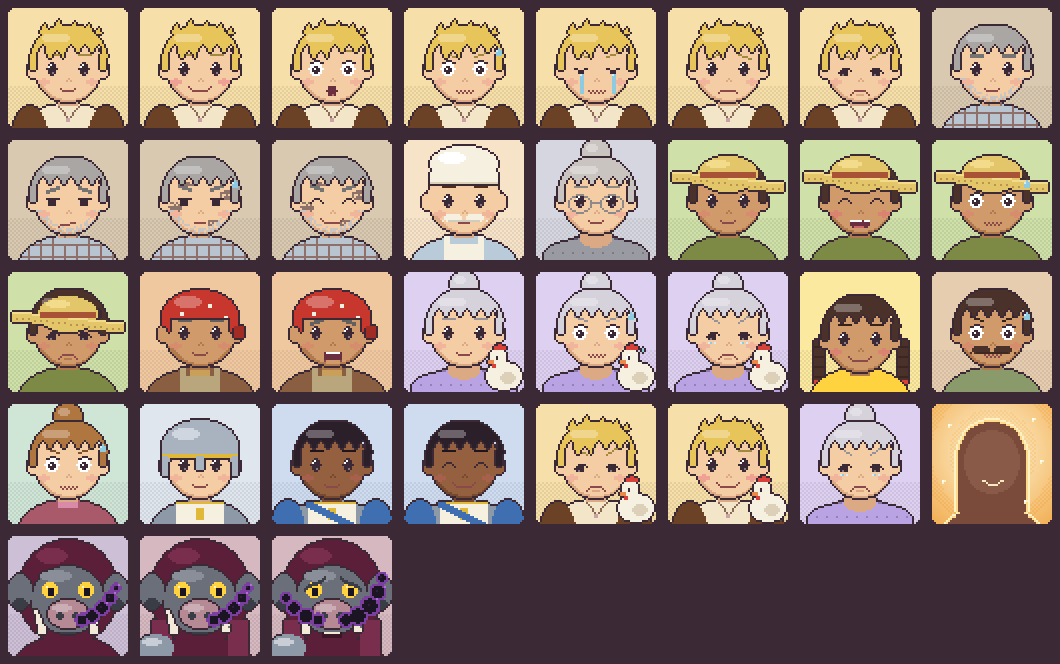
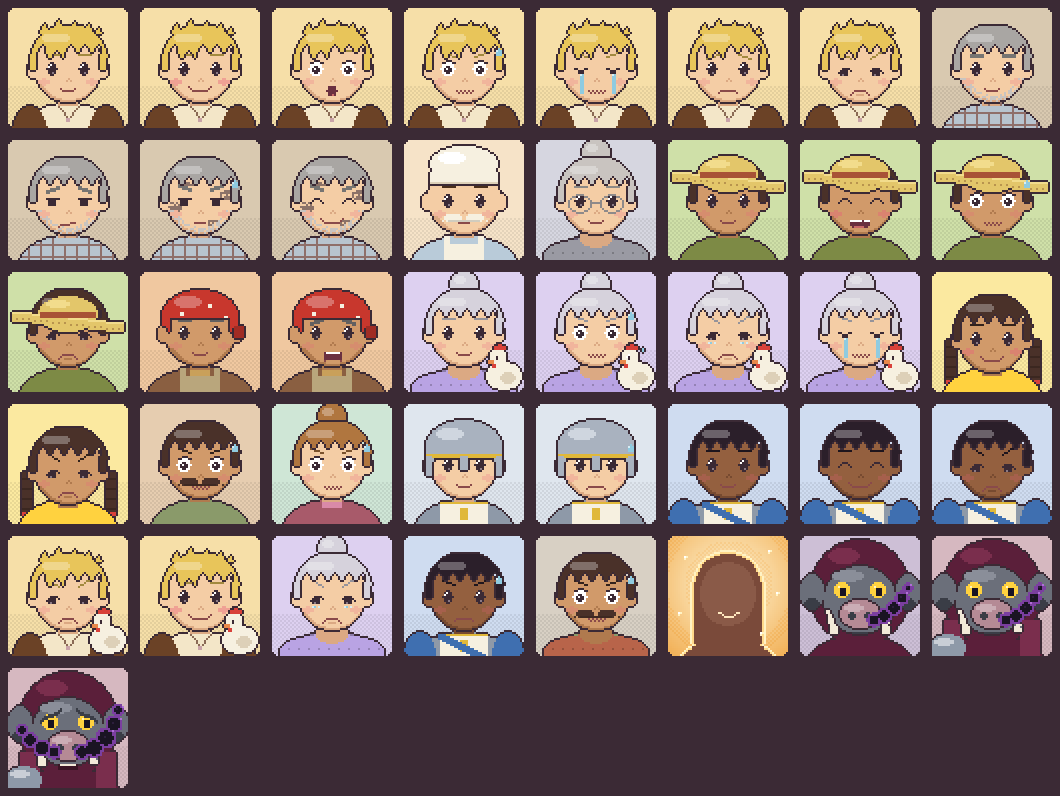
Arte: retratos soldado_tenso, sargento_tensa/triste, nina_triste, custodia_choro, sobrevivente_medo
Claude-Session: https://claude.ai/code/session_01XuAwfEvS43hiaXGfUYnQvb

diff --git a/tools/arte/gerar_retratos.py b/tools/arte/gerar_retratos.py
@@ -1,4 +1,4 @@
-"""Gera os 29 retratos 64×64 de assets/portraits/ e a prancha docs/arte/capturas/retratos.png.
+"""Gera os 41 retratos 64×64 de assets/portraits/ e a prancha docs/arte/capturas/retratos.png.
 
 Uso: python3 tools/arte/gerar_retratos.py
 """
@@ -27,6 +27,7 @@ EXPR = {
     'brava': ('brava', 'normal', 'aberta_brava', ()),
     'suave': ('reta', 'fechado', 'sorriso', ()),
     'triste': ('triste', 'baixo', 'triste', ()),
+    'tenso': ('triste', 'normal', 'firme', ('suor',)),
 }
 
 FUNDOS = {'icaro': '#f6dfa8', 'pai': '#d9c9b0', 'tonho': '#cfe0a8', 'zefa': '#f0c8a0', 'custodia': '#ddd0f0', 'nina': '#fbe9a0', 'juca': '#f6e3c8',
@@ -396,11 +397,11 @@ LISTA = [
     ('juca', 'juca', ['neutro']), ('ermelinda', 'ermelinda', ['neutro']),
     ('tonho', 'tonho', ['neutro', 'riso', 'medo', 'triste']),
     ('zefa', 'zefa', ['neutro', 'brava']),
-    ('custodia', 'custodia', ['neutro', 'medo', 'triste']),
-    ('nina', 'nina', ['neutro']),
+    ('custodia', 'custodia', ['neutro', 'medo', 'triste', 'choro']),
+    ('nina', 'nina', ['neutro', 'triste']),
     ('aldeao', 'sobrevivente_1', ['medo']), ('aldea', 'sobrevivente_2', ['medo']),
-    ('soldado', 'soldado_1', ['neutro']),
-    ('sargento', 'sargento', ['neutro', 'suave']),
+    ('soldado', 'soldado_1', ['neutro', 'tenso']),
+    ('sargento', 'sargento', ['neutro', 'suave', 'triste']),
 ]
 
 
@@ -423,6 +424,8 @@ def todos():
     for e in ('triste', 'sorriso'):
         r[f'icaro_{e}_galinha'] = retrato('icaro', dict(FICHAS['icaro'], galinha=True), e)
     r['custodia_triste_sem_galinha'] = retrato('custodia', dict(FICHAS['custodia'], galinha=False, olhos_umidos=True), 'triste')
+    r['sargento_tensa'] = retrato('sargento', dict(FICHAS['sargento']), 'tenso')
+    r['sobrevivente_medo'] = retrato('sobrevivente', dict(FICHAS['sobrevivente_1'], xale='#b8644a'), 'medo', '#d8d0c4')
     r['mae_silhueta'] = retrato_mae()
     r['cali_soldado'] = retrato_cali()
     r['toucim_neutro'] = retrato_cali(True)
